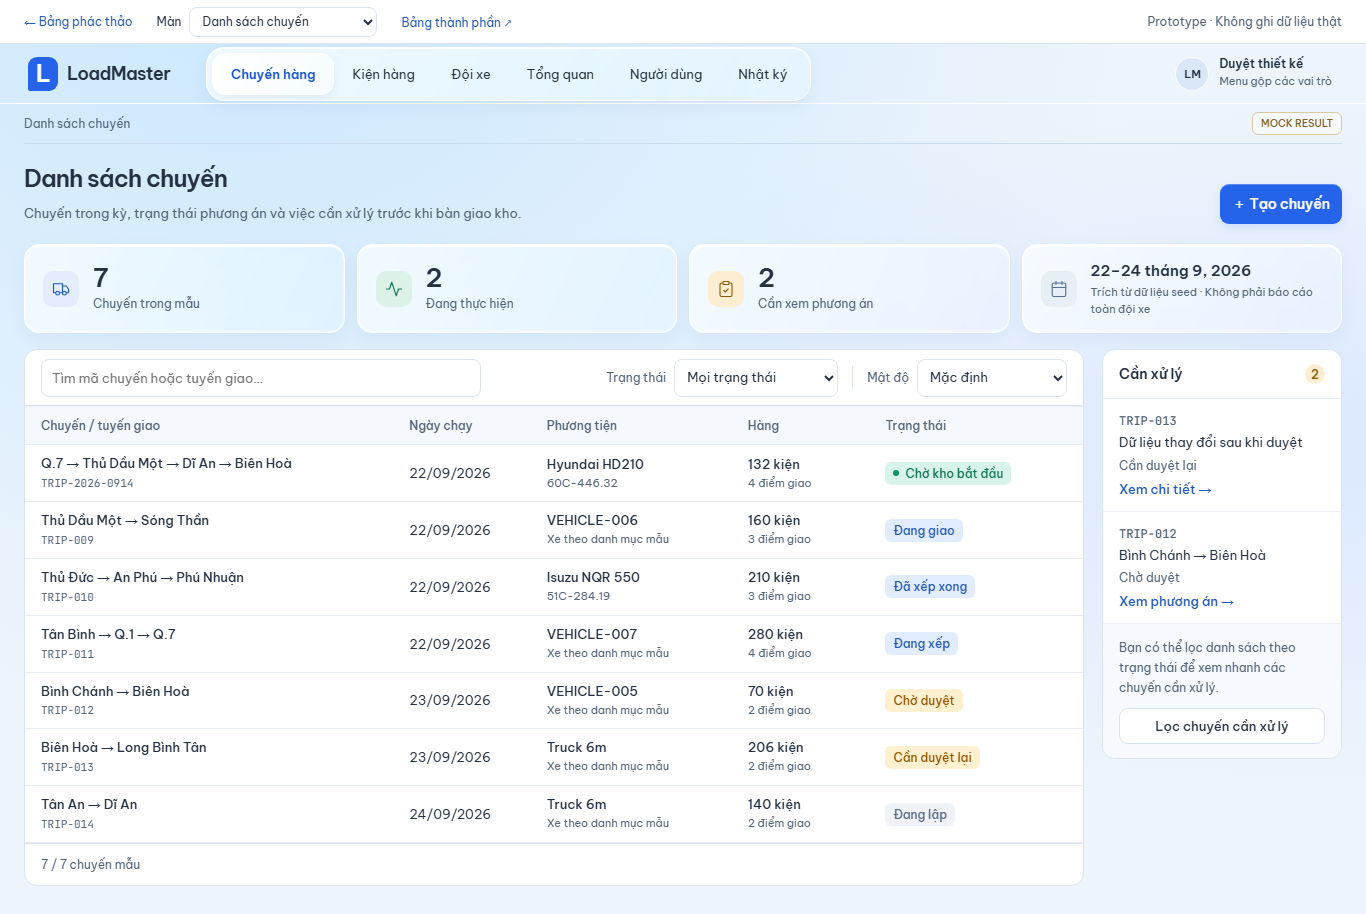
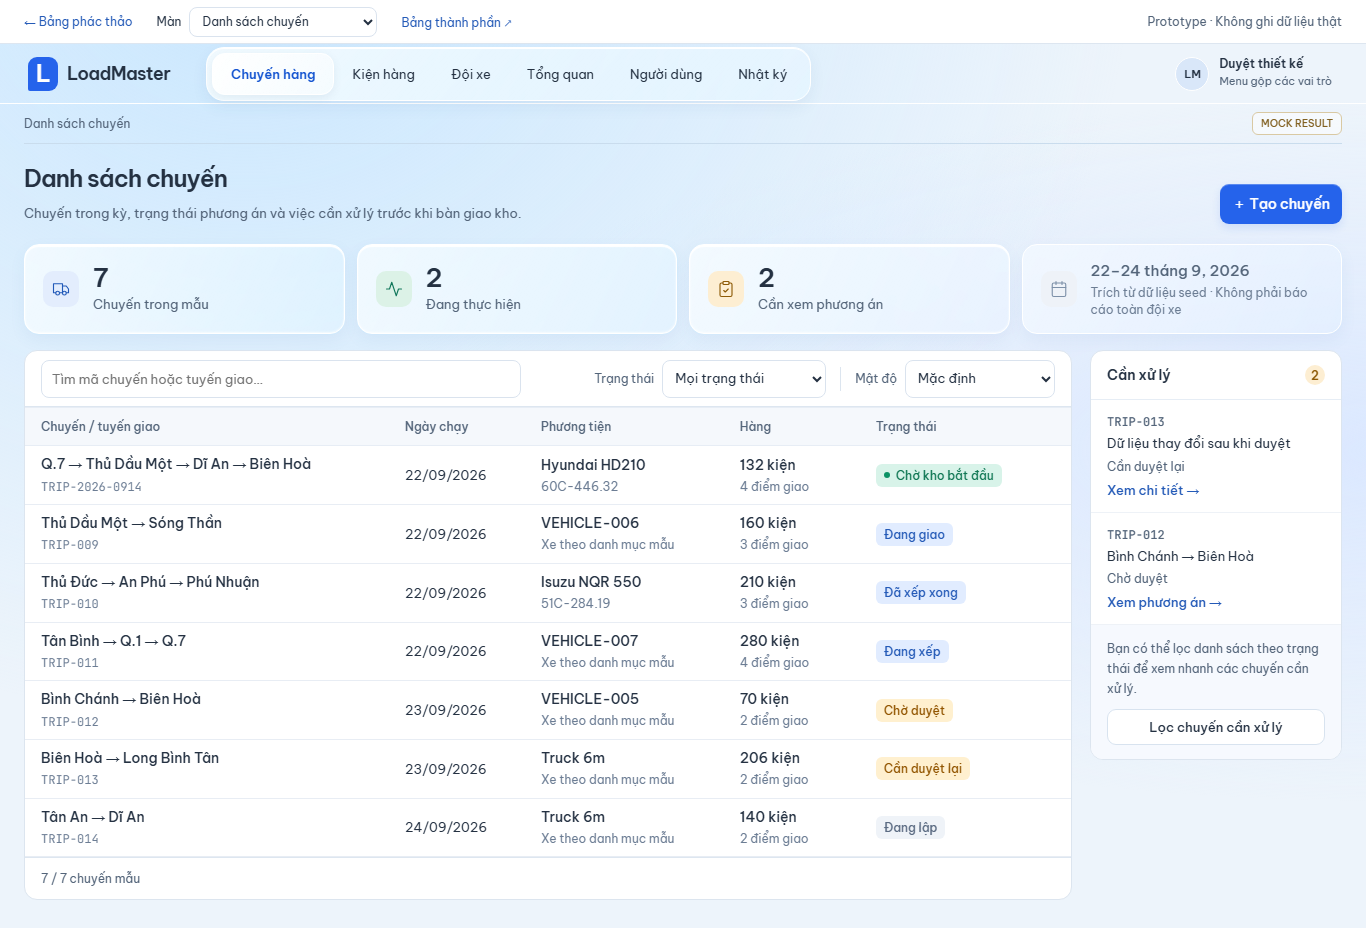
design(v2): polish chữ và tỷ lệ màn Danh sách chuyến
Một vòng chỉnh nhỏ trên bố cục đã chốt, không đổi theme. Chỉ screens.css.

Chữ phụ trong bảng từ 11px lên 12px và mã chuyến cũng vậy — 11px đọc
như đang thu nhỏ trang. Nhãn KPI 12 lên 13px.

Dòng chính trong bảng lên 14px trong khi dòng phụ giữ 12px và nhạt hơn
(#6c7d94), khoảng cách hai dòng 3 lên 4px. Trước đây 13 và 11px quá gần
nhau nên mắt phải dừng lại đọc thay vì lướt theo cột. Bù lại padding ô
9 xuống 8px nên hàng chỉ cao thêm 2px.

Ô tìm 440 lên 480px, tối đa 45 lên 48%: ở 1366 nó chiếm 47% thanh công
cụ, hết khoảng trống chết giữa ô tìm và nhóm lọc mà vẫn không chiếm gần
cả hàng như bản cũ.

Rail 270 lên 290px, và 240 lên 252px ở dưới 1450px. Chữ trong hộp gợi ý
bớt xuống dòng. Ở 1920 rail chiếm 16% vùng làm việc, vẫn đúng vai phụ.

Ô ngày tháng vẫn cùng hệ kính nhưng nhạt hơn một bậc: nền mỏng hơn, bỏ
viền sáng, icon mờ đi, chữ ngày còn weight 500 màu phụ. Nó là ngữ cảnh
của kỳ báo cáo, không phải một chỉ số đọc được, nên không nên đứng
ngang vai ba ô kia.

Không đổi JS, markup, dữ liệu, tương tác, màu trạng thái hay file dùng
chung. Không đụng src/.

verify-screens, verify-desktop, verify.mjs và lint pass. Không tràn
ngang từ 1920 tới 1024; 1366x768 vẫn thấy 5 dòng.

diff --git a/design/v2/screens.css b/design/v2/screens.css
@@ -42,24 +42,26 @@
 .kpi-tile { display: flex; align-items: center; gap: 14px; min-height: 84px; padding: 15px 18px; border: 1px solid white; border-radius: 15px; background: var(--glass-fill); backdrop-filter: blur(9px) saturate(1.35); box-shadow: var(--glass-edge),var(--glass-lift); }
 .kpi-tile > div { display: grid; gap: 3px; min-width: 0; }
 .kpi-tile strong { font-size: 26px; font-weight: 600; color: var(--ink); font-variant-numeric: tabular-nums; line-height: 1.1; }
-.kpi-tile span { font-size: 12px; color: var(--muted); line-height: 1.5; }
+.kpi-tile span { font-size: 13px; color: var(--muted); line-height: 1.45; }
 .kpi-icon { display: grid; place-items: center; width: 36px; height: 36px; border-radius: 10px; flex-shrink: 0; }
 .kpi-icon.truck { background: #e3edfd; color: #2159b8; }
 .kpi-icon.activity { background: #dcf2e7; color: #10775a; }
 .kpi-icon.review { background: #fdeed2; color: #8d5a06; }
-.kpi-icon.calendar { background: #e8eef6; color: #55708f; }
-/* Ô ngữ cảnh: ngày là chữ thường, không phải con số lớn. */
-.kpi-context strong { font-size: 15px; font-weight: 600; line-height: 1.45; }
-.kpi-context small { font-size: 11px; color: var(--muted); line-height: 1.5; }
+.kpi-icon.calendar { background: #eef2f8; color: #7d90a8; }
+/* Ô ngữ cảnh: cùng hệ kính với ba ô kia nhưng nhạt hơn một bậc — nó là ngữ
+   cảnh của kỳ báo cáo, không phải một chỉ số đọc được. */
+.kpi-context { background: linear-gradient(115deg,#ffffff7d,#ffffff2b); box-shadow: var(--glass-lift); }
+.kpi-context strong { font-size: 15px; font-weight: 500; color: var(--muted); line-height: 1.4; }
+.kpi-context small { font-size: 12px; color: #6c7d94; line-height: 1.45; }
 
-.dispatch-grid { display: grid; grid-template-columns: minmax(0,1fr) 270px; gap: 18px; align-items: start; }
+.dispatch-grid { display: grid; grid-template-columns: minmax(0,1fr) 290px; gap: 18px; align-items: start; }
 .paper { background: white; border: 1px solid #dce5ef; border-radius: 13px; min-width: 0; overflow: hidden; }
 
 .list-tools { display: flex; gap: 10px; padding: 16px; border-bottom: 1px solid var(--line); }
 /* Thanh công cụ của Trips: tìm bên trái, nhóm lọc bên phải. Modifier riêng để
    không đụng .list-tools của kiện hàng / đội xe / người dùng / nhật ký. */
 .trip-tools { display: flex; align-items: center; justify-content: space-between; gap: 16px; min-height: 56px; padding: 8px 16px; }
-.trip-tools .search { flex: 0 1 440px; max-width: 45%; min-height: 38px; border-radius: 8px; }
+.trip-tools .search { flex: 0 1 480px; max-width: 48%; min-height: 38px; border-radius: 8px; }
 /* desktop.css cho mọi input trong .list-tools một viền + cao 40px; trong ô tìm
    điều đó thành hộp lồng hộp, nên trả input về đúng vai trò của nó. */
 .trip-tools .search input { border: 0; height: auto; padding: 8px 0; background: transparent; font-size: 13px; }
@@ -71,18 +73,20 @@
 .suite-table-scroll { overflow: auto; }
 .trip-table { min-width: 760px; }
 .trip-table th { height: 38px; padding: 0 14px; font-size: 12px; font-weight: 500; }
-.trip-table td { padding: 9px 14px; font-size: 13px; }
+.trip-table td { padding: 8px 14px; font-size: 13px; }
+/* Dòng chính đậm và to hơn dòng phụ một bậc rõ rệt, để mắt lướt theo cột. */
+.trip-table td strong, .trip-row-link strong { font-size: 14px; }
 .trip-table th:first-child, .trip-table td:first-child { padding-left: 16px; }
 .trip-table th:nth-child(1) { width: 35%; }
 .trip-table th:nth-child(2) { width: 13%; }
 .trip-table th:nth-child(3) { width: 19%; }
 .trip-table th:nth-child(4) { width: 13%; }
 .trip-table .col-date { white-space: nowrap; }
-.trip-table td small { display: block; font-size: 11px; color: var(--muted); margin-top: 3px; line-height: 1.5; }
+.trip-table td small { display: block; font-size: 12px; color: #6c7d94; margin-top: 4px; line-height: 1.45; }
 .trip-table td strong { font-weight: 500; white-space: nowrap; }
-.trip-row-link { display: grid; gap: 3px; text-align: left; background: none; padding: 0; line-height: 1.45; }
+.trip-row-link { display: grid; gap: 4px; text-align: left; background: none; padding: 0; line-height: 1.45; }
 .trip-row-link strong { white-space: normal !important; }
-.trip-row-link .mono { font-size: 11px; color: var(--muted); }
+.trip-row-link .mono { font-size: 12px; color: #6c7d94; }
 .trip-table[data-density=compact] td { padding-block: 7px; }
 .trip-table[data-density=roomy] td { padding-block: 20px; }
 .list-foot { padding: 13px 16px; color: var(--muted); font-size: 12px; border-top: 1px solid var(--line); }
@@ -248,7 +252,7 @@ summary { cursor: pointer; font-size: 13px; }
 .queue-empty { padding: 32px 16px; text-align: center; }
 .queue-empty p { color: var(--muted); line-height: 1.8; font-size: 14px; margin-top: 12px; }
 .full-button { width: 100%; }
-@media(max-width:1449px) { .dispatch-grid { grid-template-columns: minmax(0,1fr) 240px; } .kpi-grid { grid-template-columns: repeat(3,minmax(0,1fr)) minmax(260px,1fr); } }
+@media(max-width:1449px) { .dispatch-grid { grid-template-columns: minmax(0,1fr) 252px; } .kpi-grid { grid-template-columns: repeat(3,minmax(0,1fr)) minmax(260px,1fr); } }
 @media(max-width:1199px) { .dispatch-grid { grid-template-columns: 1fr; } .attention-list { display: grid; grid-template-columns: 1fr 1fr; } .attention-list li:nth-last-child(-n+2) { border-bottom: 0; } .attention-list li + li { border-left: 1px solid #eef2f7; } }
 @media(max-width:1100px) { .kpi-grid { grid-template-columns: repeat(3,minmax(0,1fr)); } .kpi-context { grid-column: 1/-1; min-height: 0; } }
 @media(max-width:1200px) { .form-layout,.optimization-layout { grid-template-columns: minmax(0,1fr) 230px; gap: 20px; } .planner-grid { grid-template-columns: minmax(0,1fr) 250px; } }
